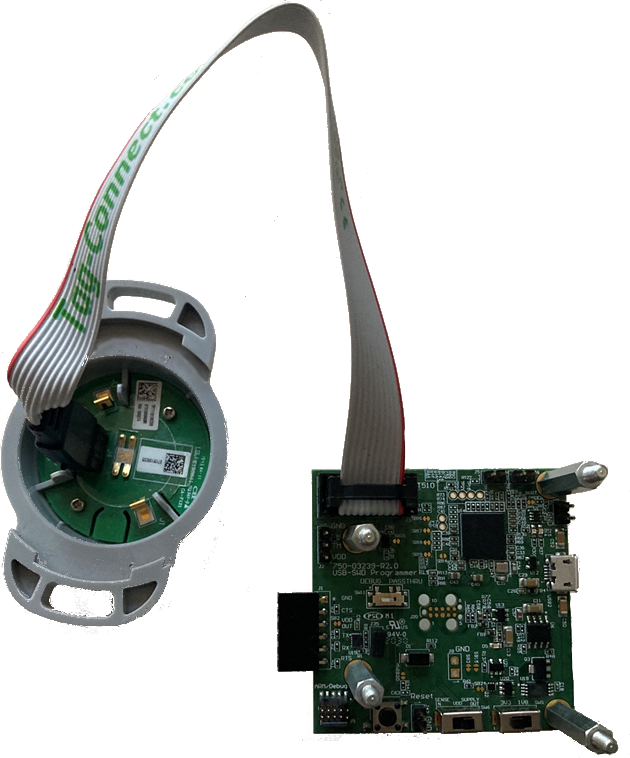
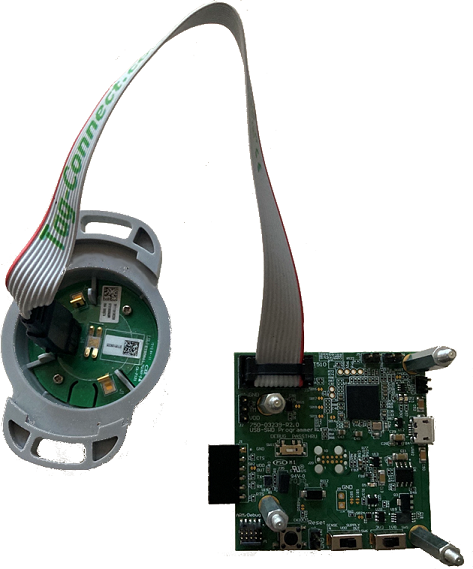
boards: arm: reduce BT510 programmer image size
The programmer image needs to be reduced down in size
for consistency with the other images in the markdown file

Changed region(s): [[0.9471, 0.9859, 0.9767, 1.0], [0.7104, 0.9262, 0.74, 0.9561]]

diff --git a/boards/arm/bt510/doc/bt510.rst b/boards/arm/bt510/doc/bt510.rst
@@ -177,7 +177,7 @@ position, ensure there is a jumper on J35 and that SW1 is in the debug position,
 connect the BT510 to the board using the Tag-Connect cable via J3:
 
 .. figure:: img/bt510_prog.png
-     :width: 630px
+     :width: 430px
      :align: center
      :alt: Sentrius BT510 Sensor connected to programming board
 
